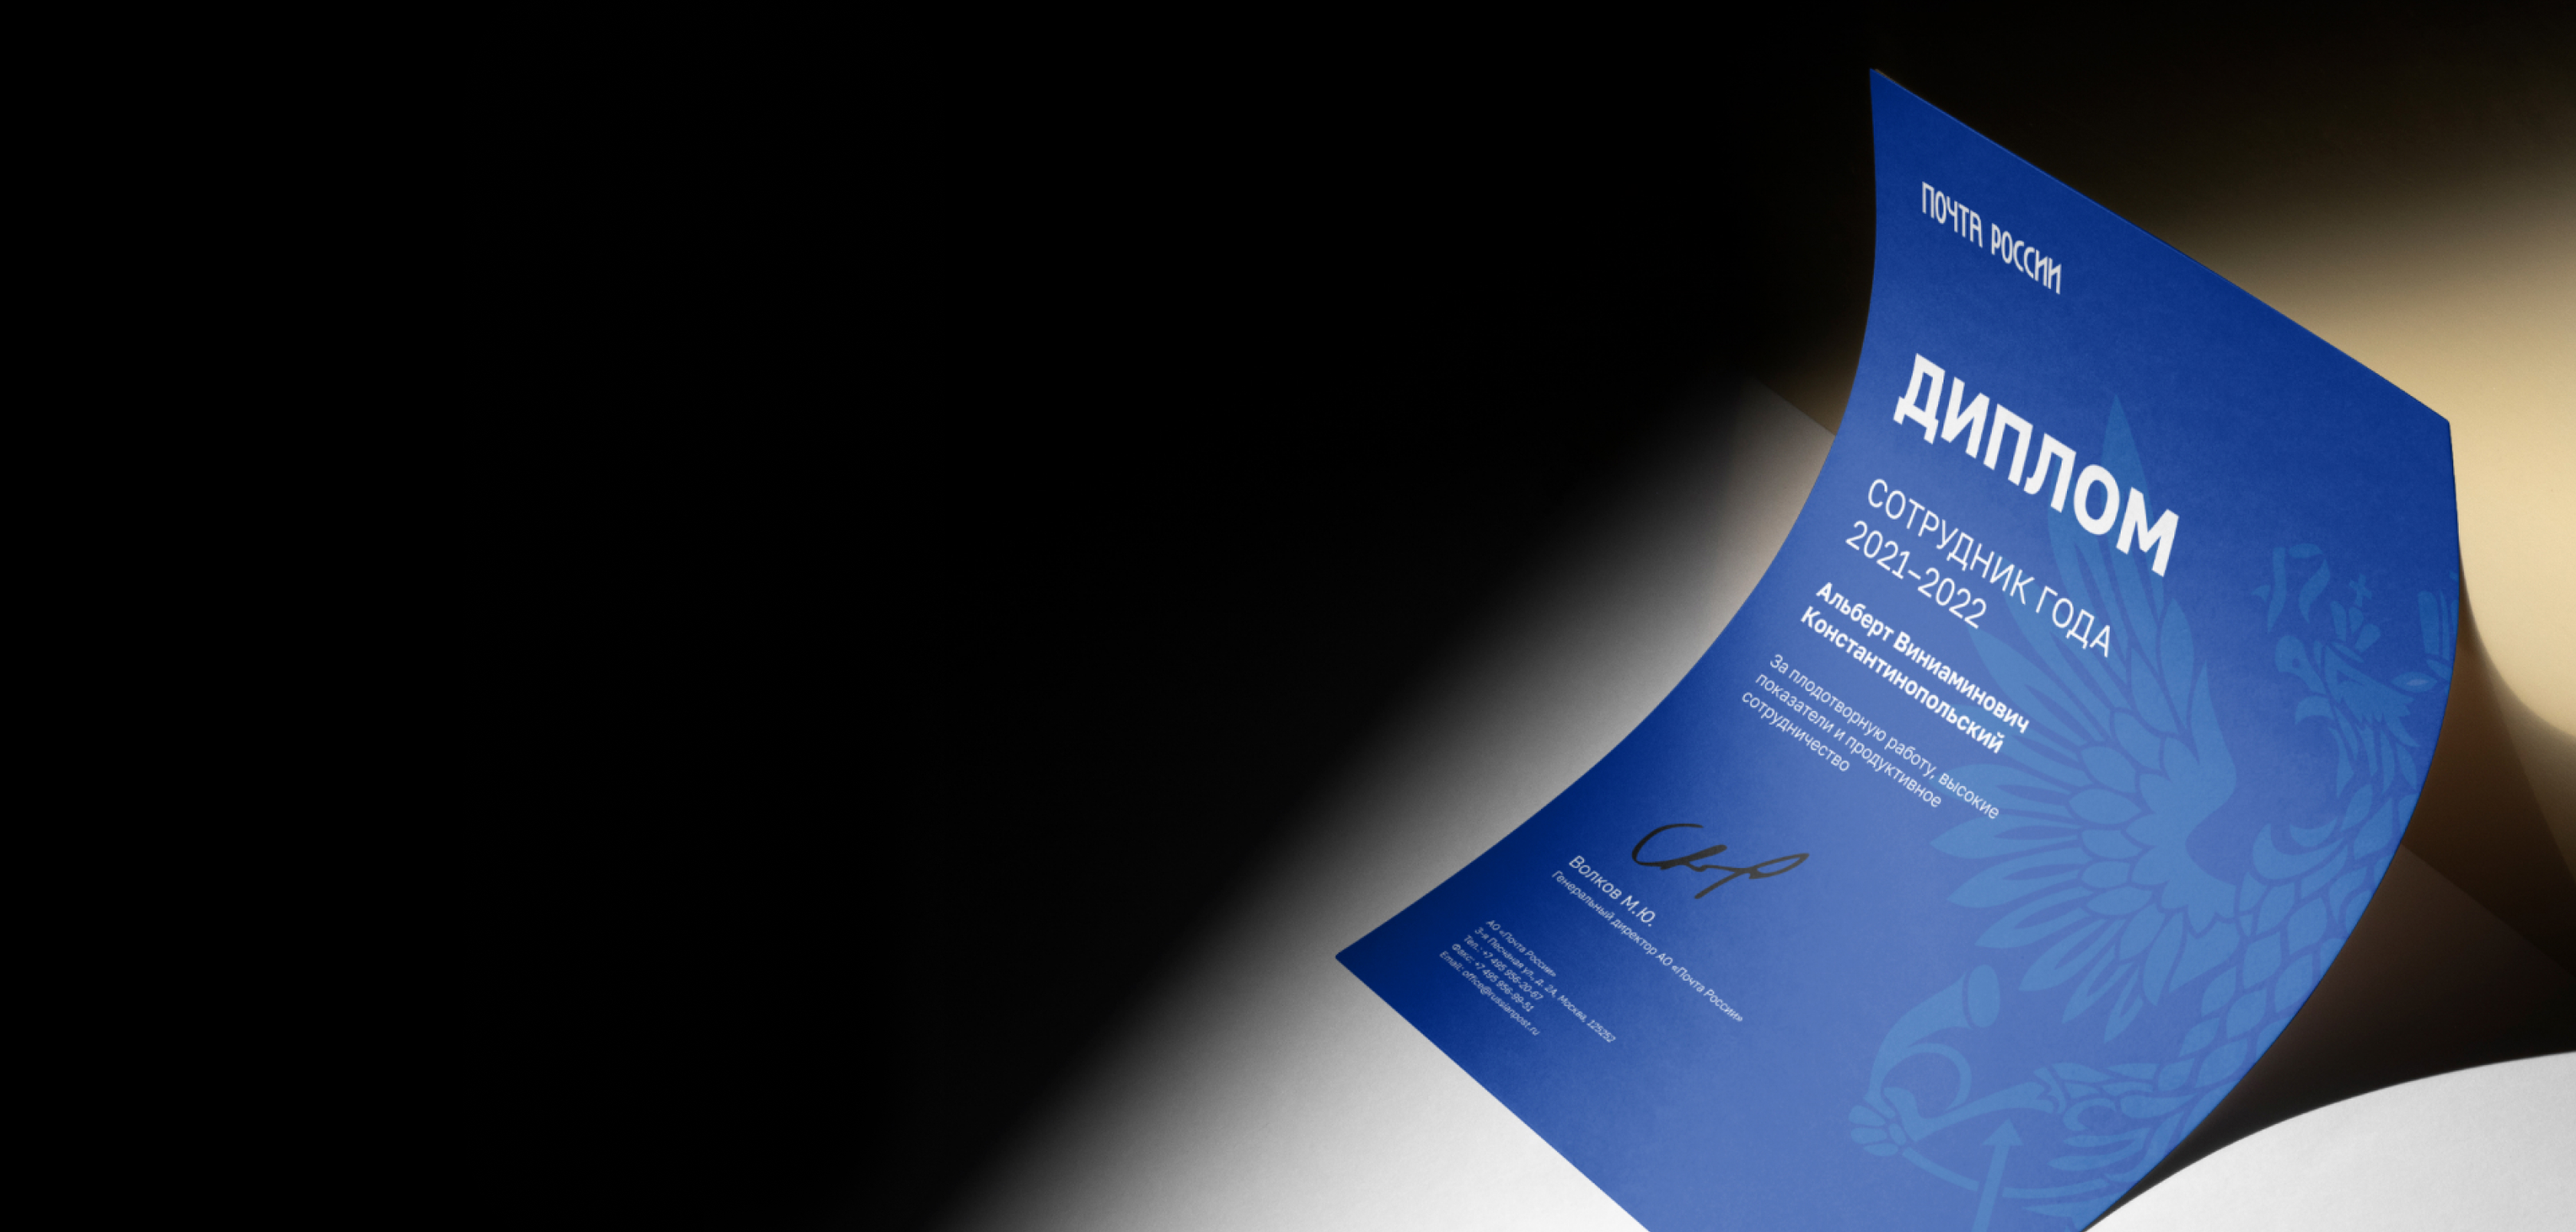
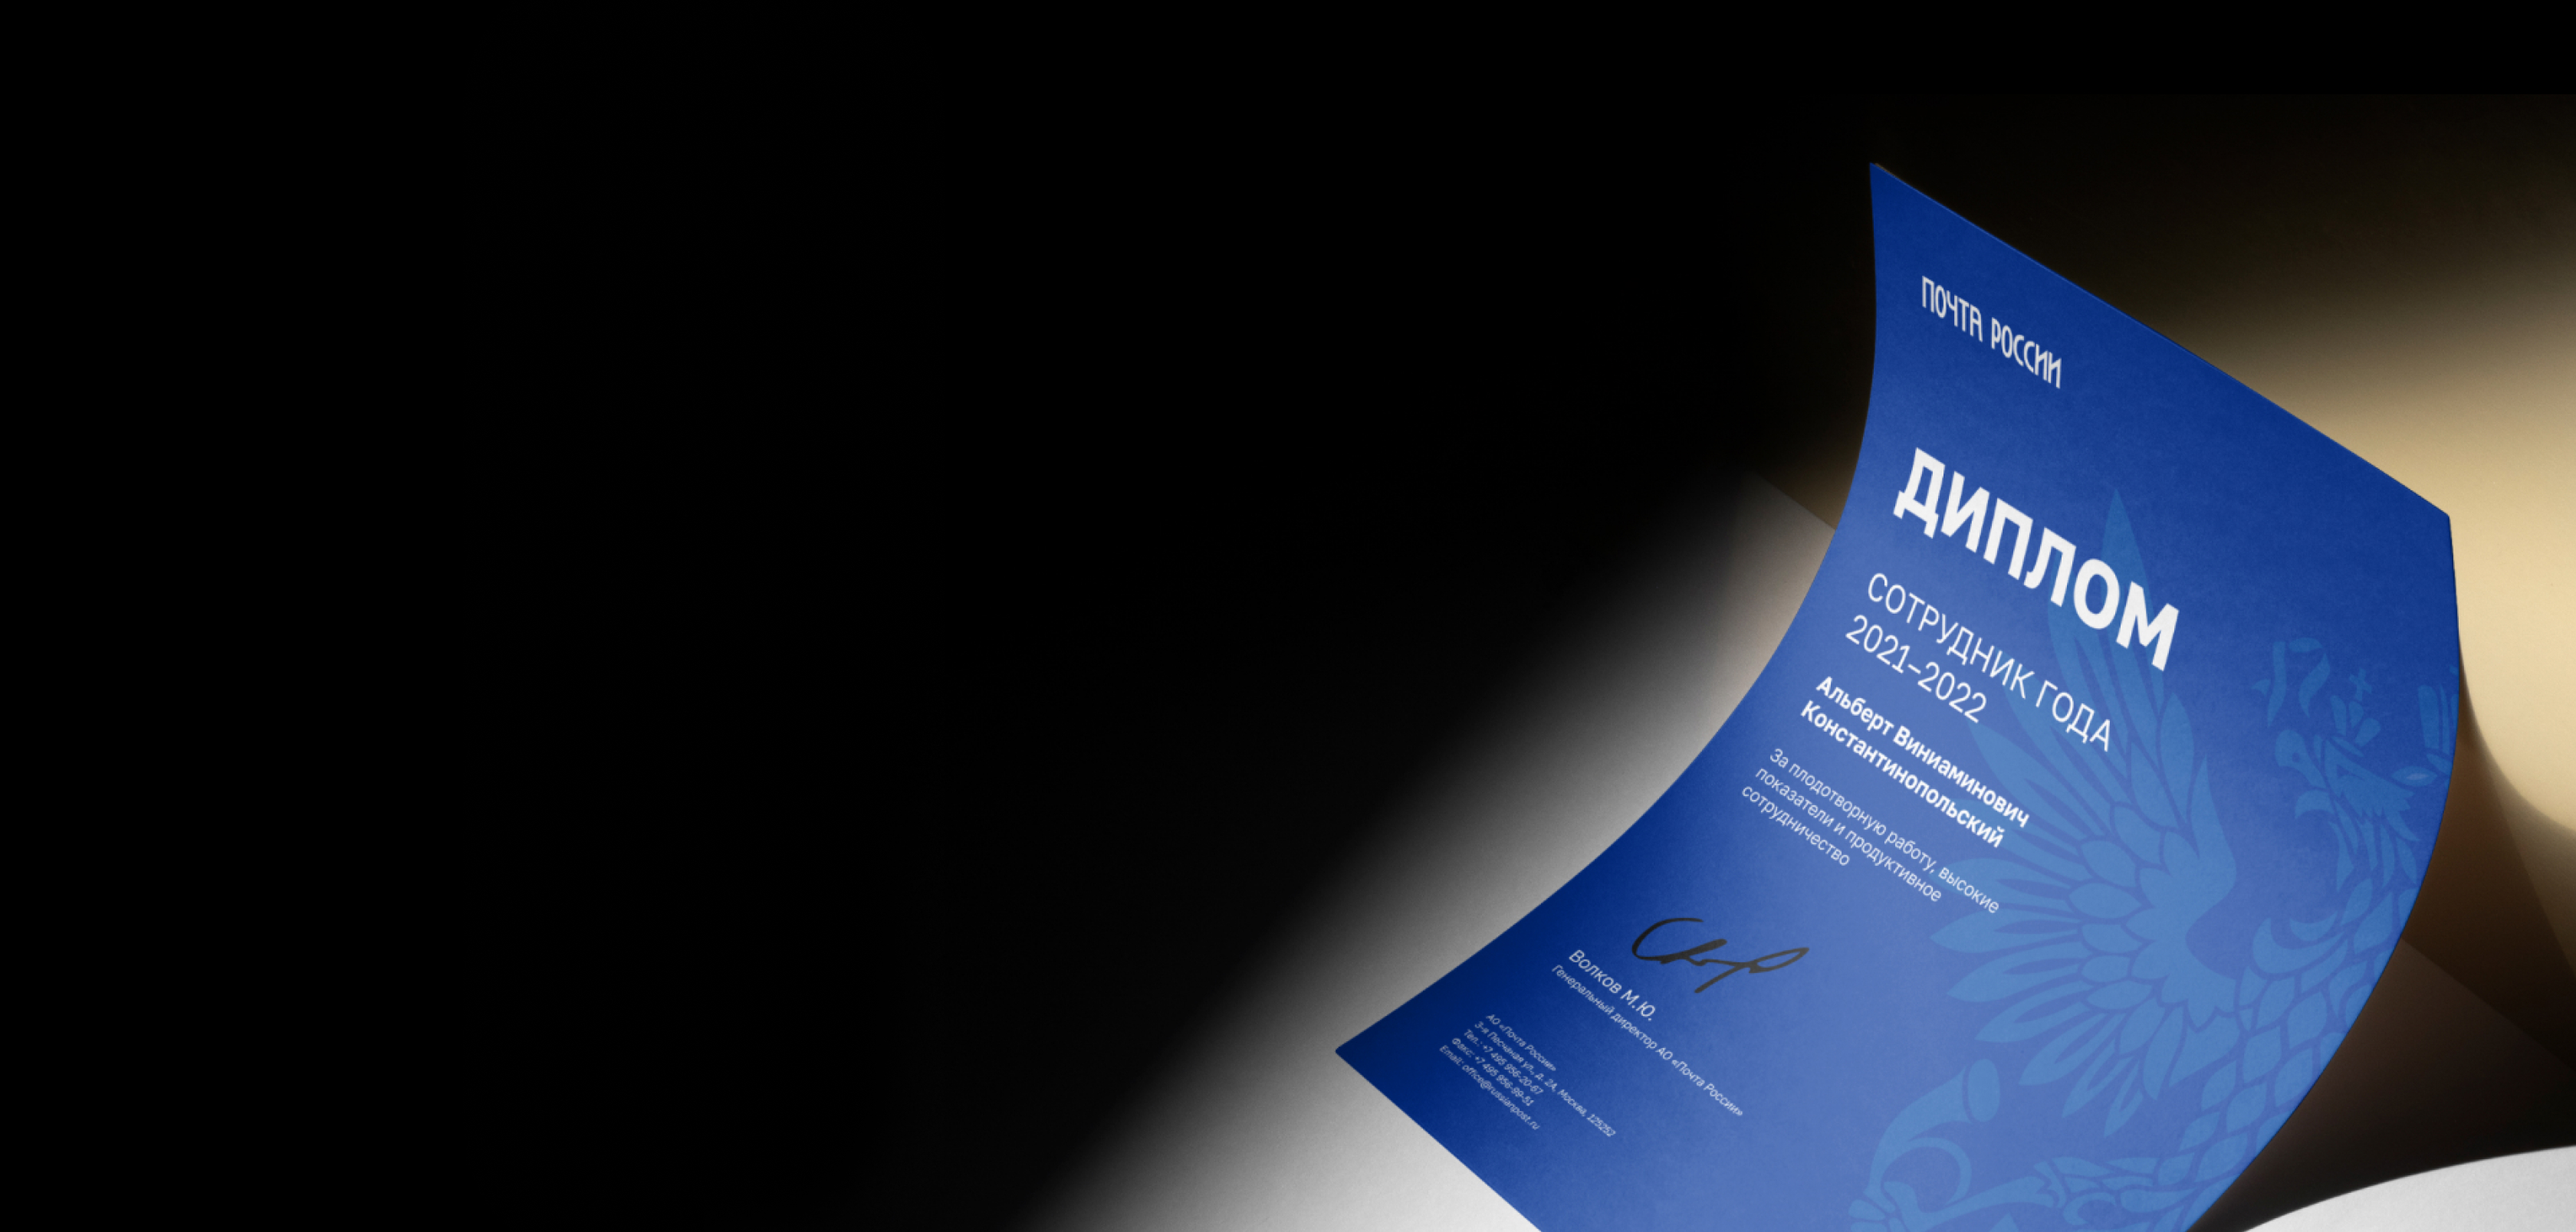
updated assets bg

Changed region(s): [[0.375, 0.0622, 1.0, 1.0], [0.875, 0.4353, 0.9062, 0.4975], [0.75, 0.7152, 0.7812, 0.7463]]

diff --git a/main.css b/main.css
@@ -3079,8 +3079,9 @@ p {
   letter-spacing:0em;
   margin-top: 0;
   margin-bottom: 0;
-  font-size: clamp(1.0625rem, 1.79vw, 1.6rem);
+  font-size: clamp(1.0625rem, 1.79vw, 1.5rem);
   font-weight: 600;
+  line-height: 1.2;
 }
 
 a {
